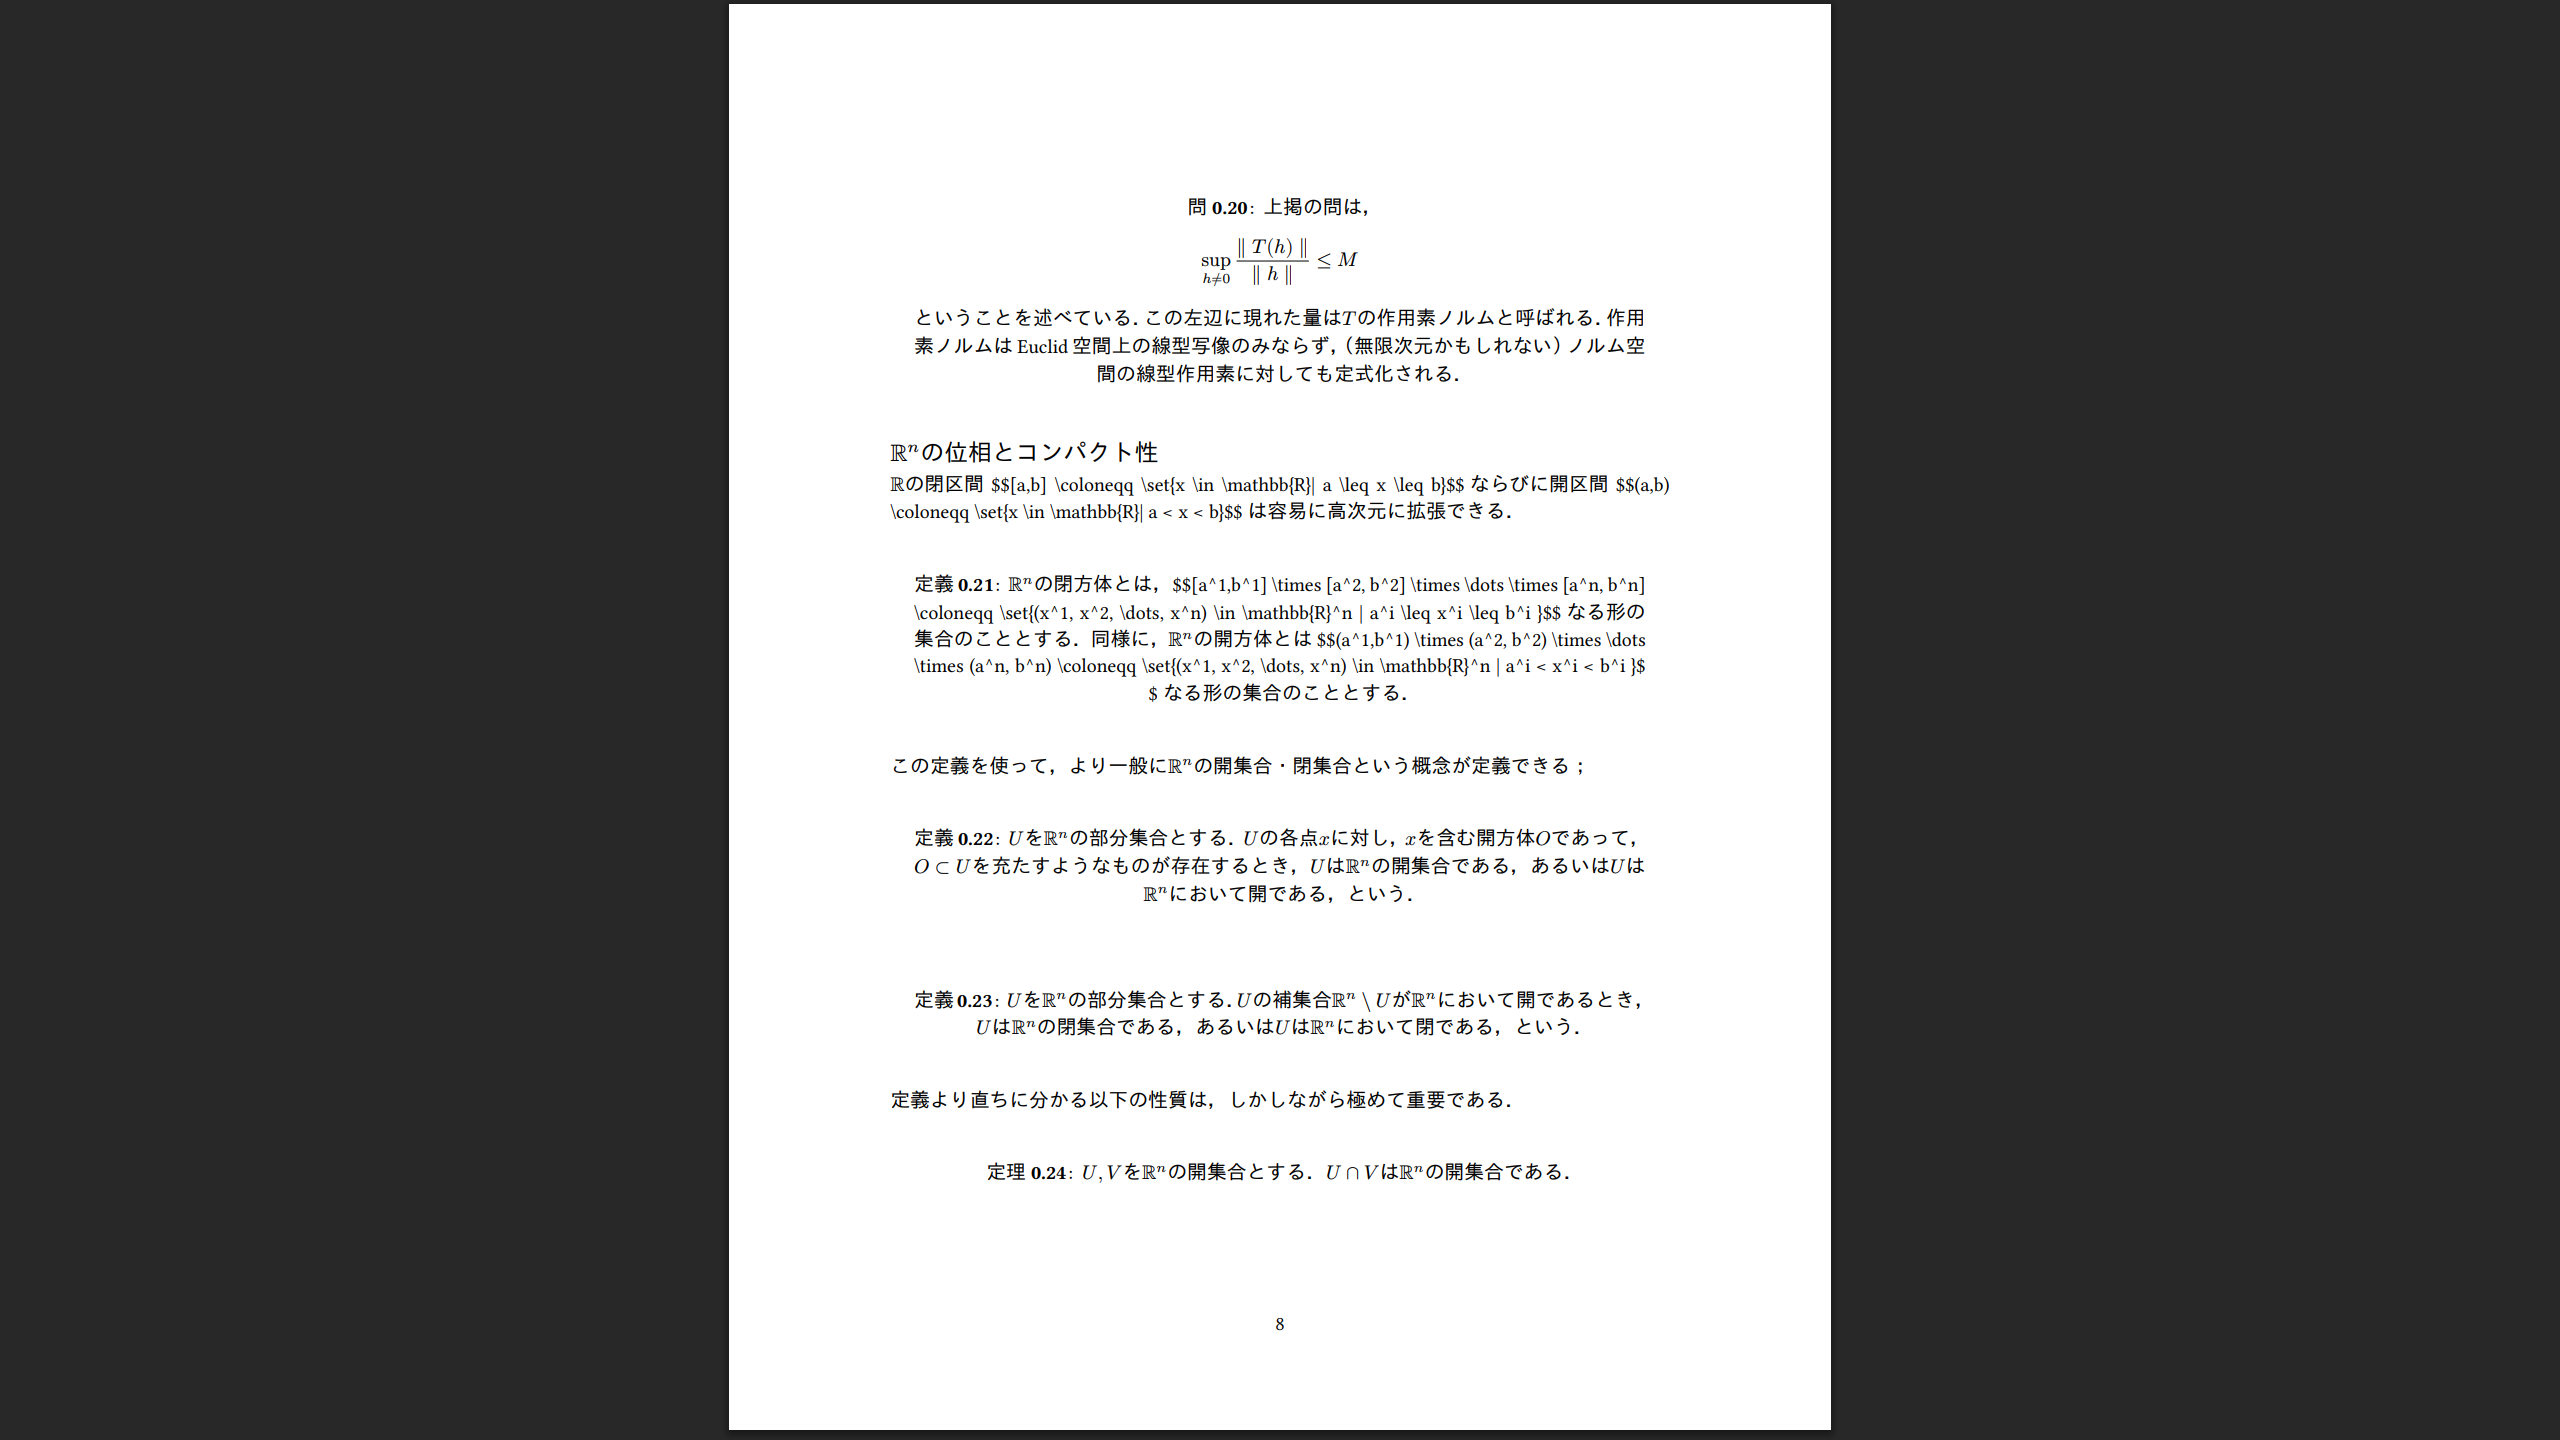
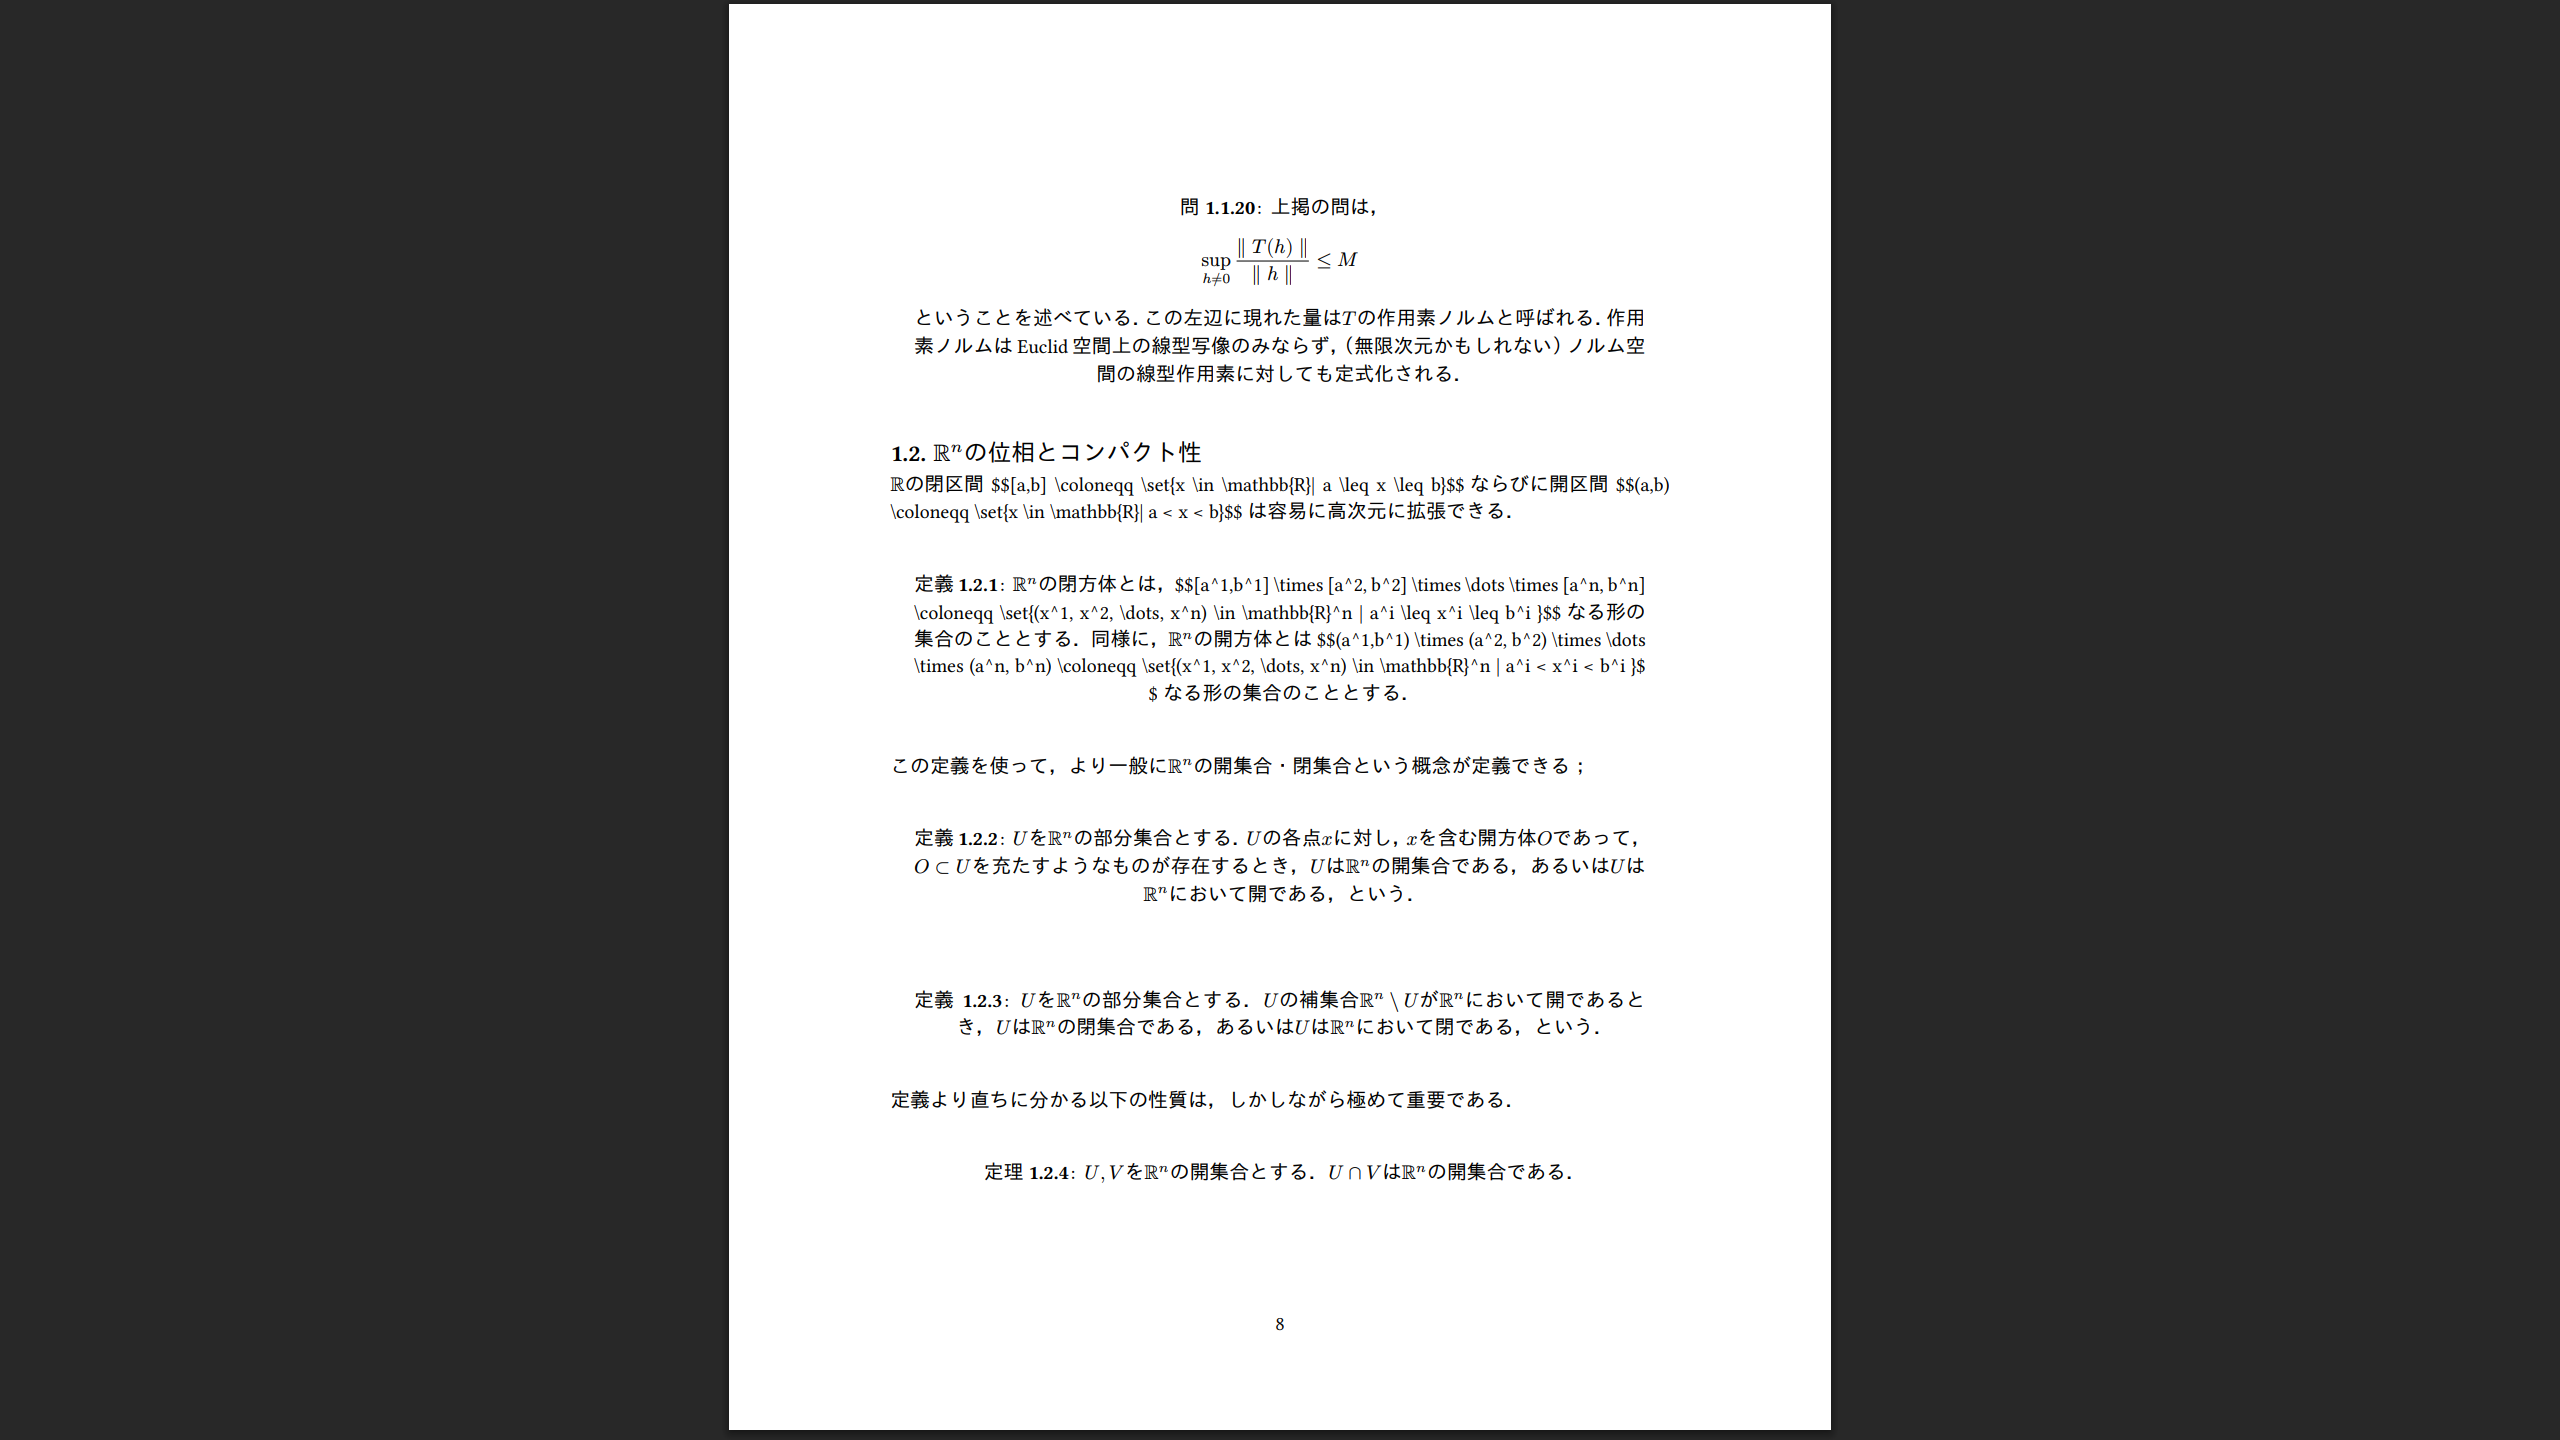
WIP

diff --git a/section1.tex b/section1.tex
@@ -1,3 +1,5 @@
+\include{./preamble.tex}
+
 \section{準備}
 
 多変数解析学を本格的に議論するにあたって必要な概念たちを手短に扱う．

diff --git a/memo.md b/memo.md
@@ -556,6 +556,10 @@ Evaluates the file at the path bar.typ, extracts the values of the variables a a
 // 各セクションファイル。
 #import "preamble.typ": * // なお import の代わりに include だと同じエラーで動かない。
 
+= 準備
+<準備>
+多変数解析学を本格的に議論するにあたって必要な概念たちを手短に扱う．
+
 == $bb(R)^n$の線型空間としての構造
 <mathbbrnの線型空間としての構造>
 #defi[
@@ -566,8 +570,54 @@ Evaluates the file at the path bar.typ, extracts the values of the variables a a
   a dot.op \( x^1 \, x^2 \, dots.h \, x^n \) & colon.eq \( a x^1 \, a x^2 \, dots.h \, a x^n \) $ただし，$a in bb(R)$．
 ```
 
-動いた時の様子がこちら。なんかグチャグチャだけど、番号はついているのでとりあえず良しとする。
+動いた時の様子がこちら。番号はついている。
 ![image](./theorem_number_works.png)
+
+もともとの本では定理番号を section ごとに管理していたので、そうなるように直したい。これは ctheorems の manual に普通に書いてあって、base_level を指定すれば出来た。
+
+```typst
+// preamble.tex
+#import "@preview/ctheorems:1.1.3": *
+#let thm = thmbox("theorem", "定理", base_level: 1)
+#let defi = thmbox("theorem", "定義", base_level: 1)
+#let lem = thmbox("theorem", "補題", base_level: 1)
+#let que = thmbox("theorem", "問", base_level: 1)
+#let cor = thmbox("theorem", "系", base_level: 1)
+#let prop = thmbox("theorem", "命題", base_level: 1)
+#let dig = thmbox("theorem", "余談", base_level: 1)
+#let state = thmbox("theorem", "主張", base_level: 1)
+#let exm = thmbox("theorem", "例", base_level: 1)
+#let rem = thmbox("theorem", "注意", base_level: 1)
+#let proof = thmproof("proof", "証明", base_level: 1)
+```
+
+ちなみにここで `fill` を指定してあげれば色もつく（けど、下の画像では色がついていない）。
+
+![image](./theorem_number_works_2.png)
+
+また、意図せず中央揃えになっているものは各セクションファイルで `#show: thmrules` を書いてあげないと直らない。マジかよー。
+公式の forum でもそのように案内がされている。このへんはこなれていない印象がある。
+https://forum.typst.app/t/how-do-i-align-text-in-ctheorems-thmbox/3273
+
+```diff
+// 各セクションファイル。
+#import "preamble.typ": * // なお import の代わりに include だと同じエラーで動かない。
++ #show: thmrules
+= 準備
+<準備>
+多変数解析学を本格的に議論するにあたって必要な概念たちを手短に扱う．
+
+== $bb(R)^n$の線型空間としての構造
+<mathbbrnの線型空間としての構造>
+#defi[
+  $bb(R)$の$n$つ組からなる集合のことを$bb(R)^n$と書き，$n$次元 Euclid
+  空間と呼ぶ．すなわち$bb(R)^n$は，$n$個の実数$x^1 \, x^2 \, dots.h \, x^n$を用いて$\( x^1 \, x^2 \, dots.h \, x^n \)$と書かれるようなもの全体のことである．
+  $bb(R)^n$には次のような仕方で加法とスカラー倍が定まる；
+  $ \( x^1 \, x^2 \, dots.h \, x^n \) + \( y^1 \, y^2 \, dots.h \, y^n \) & colon.eq \( x^1 + y^1 \, x^2 + y^2 \, dots.h \, x^n + y^n \)\
+  a dot.op \( x^1 \, x^2 \, dots.h \, x^n \) & colon.eq \( a x^1 \, a x^2 \, dots.h \, a x^n \) $ただし，$a in bb(R)$．
+```
+
+
 
 ### スタイル調整
 
